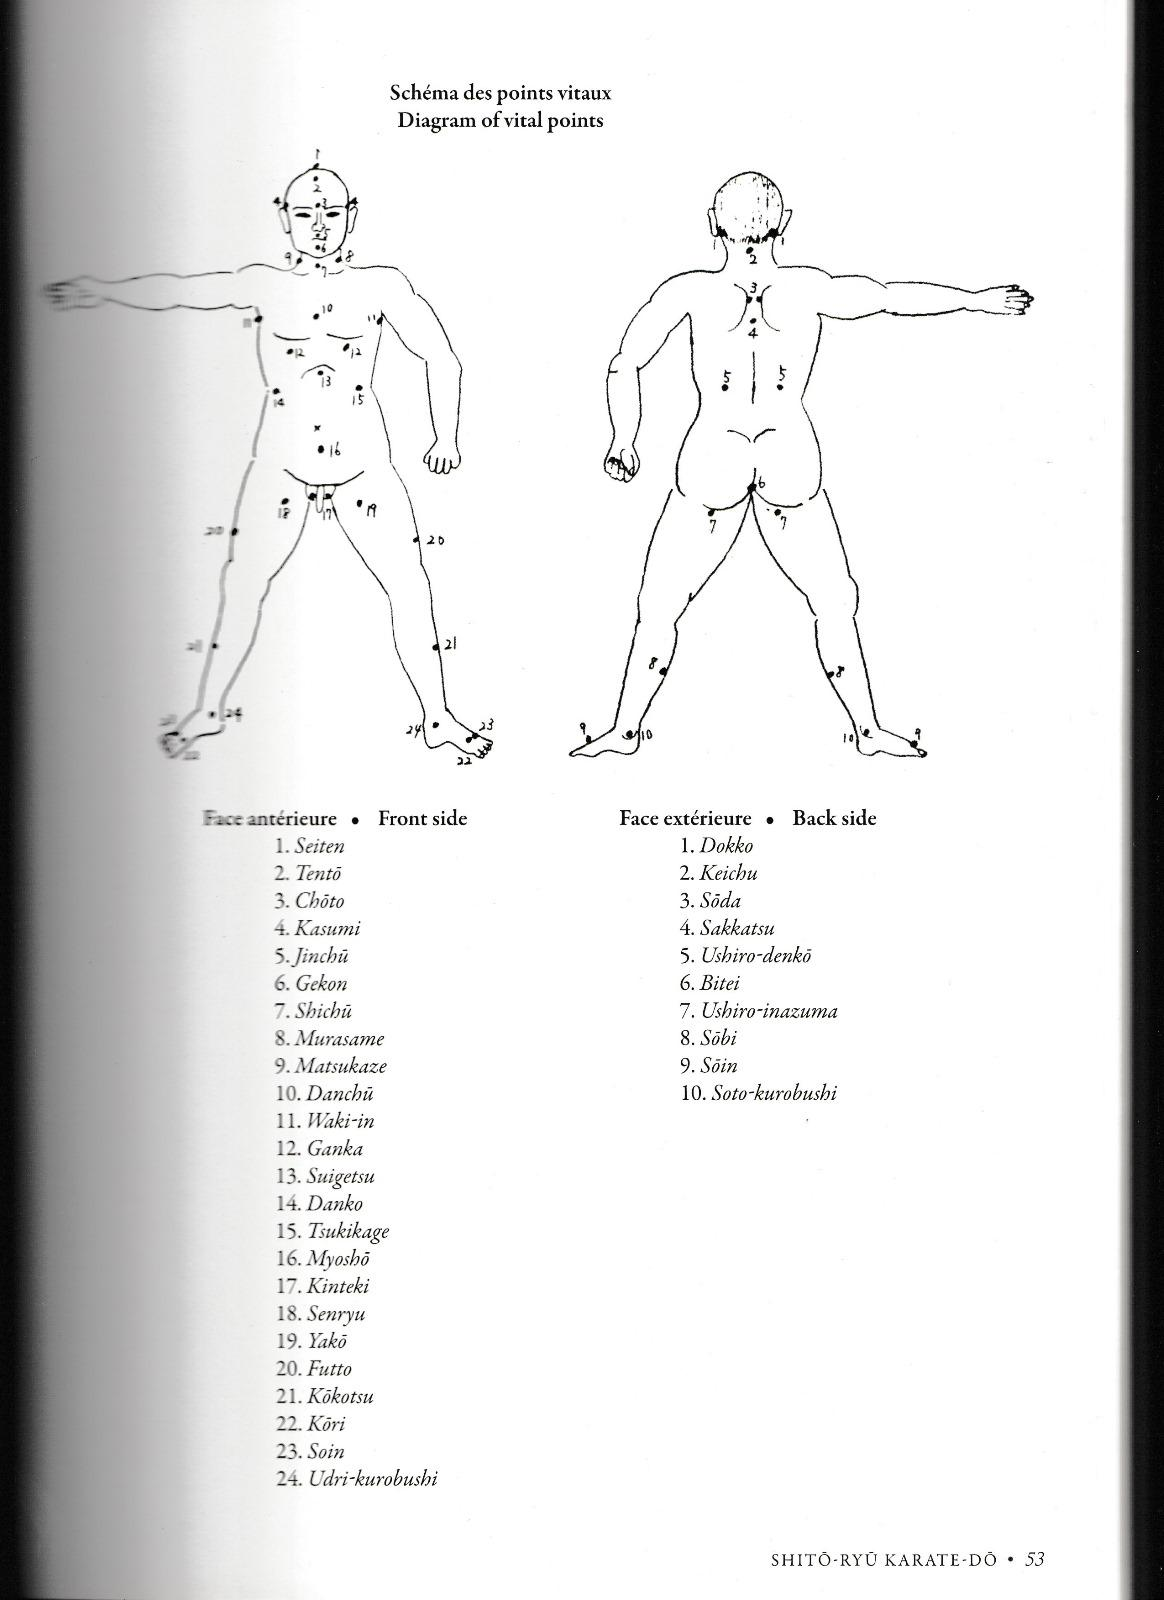
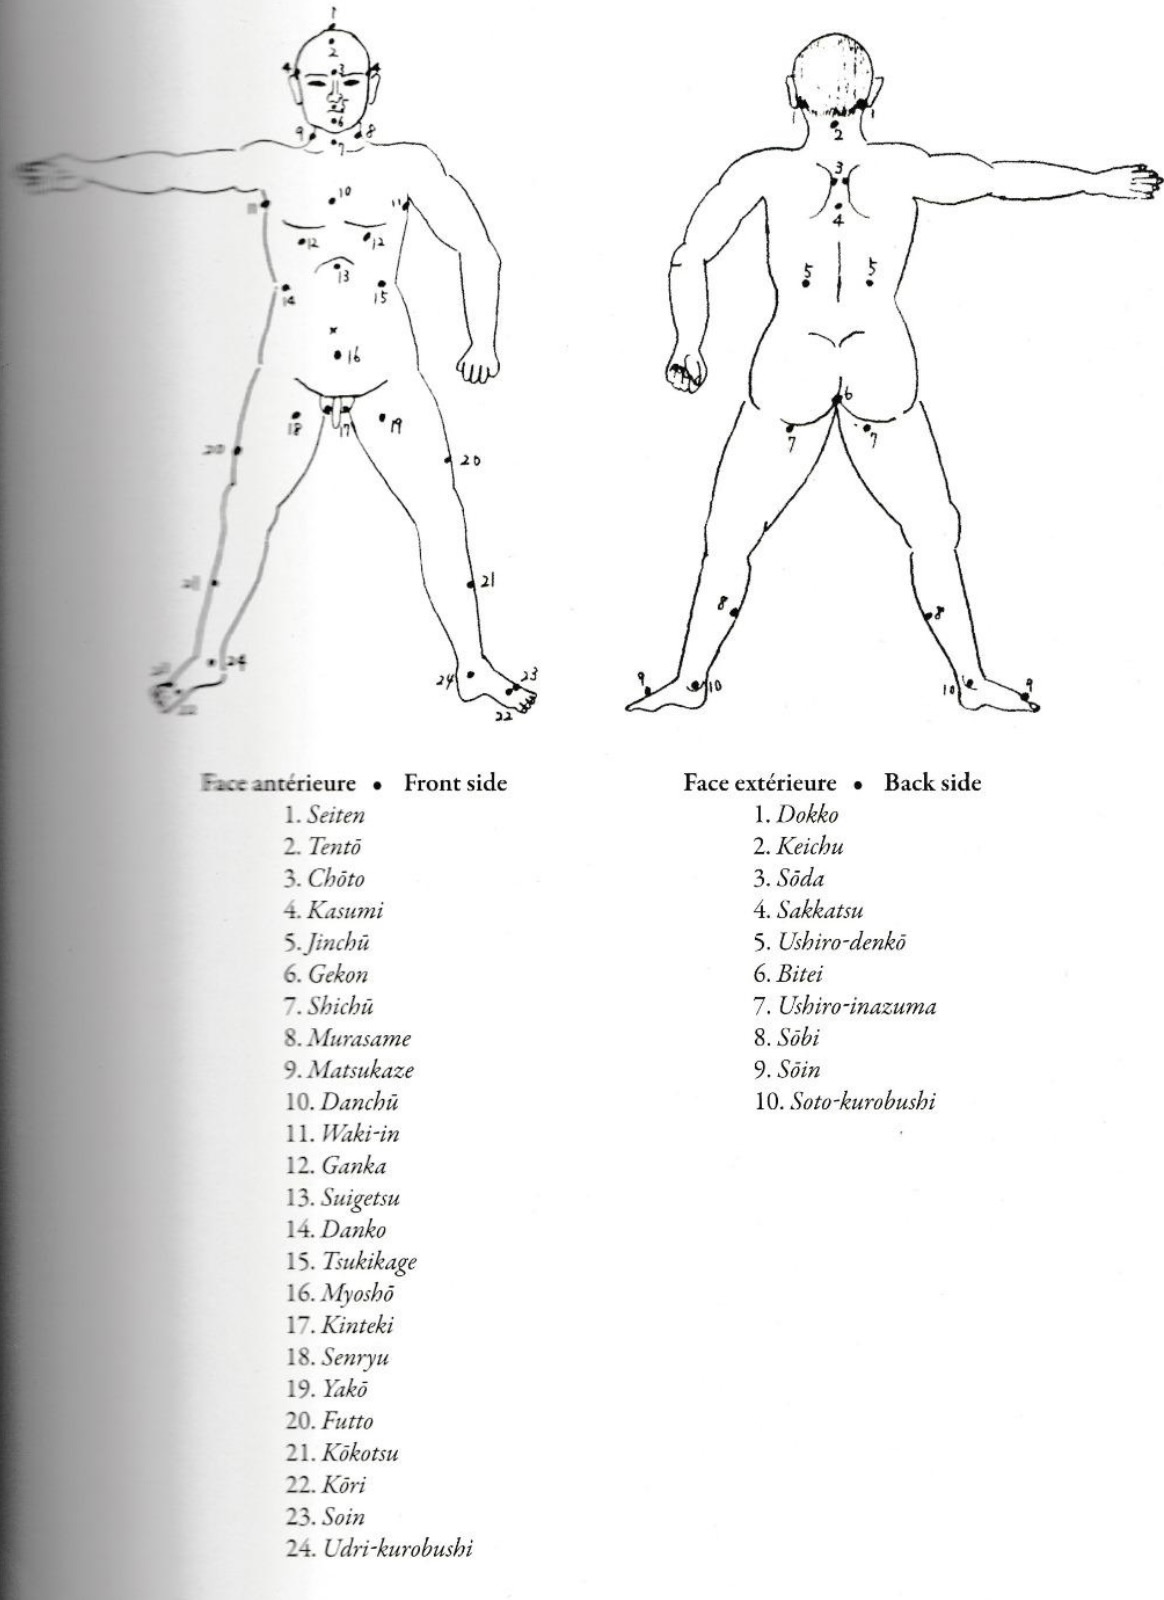
feat: front and back focused study

diff --git a/src/components/ImageViewer.tsx b/src/components/ImageViewer.tsx
@@ -7,7 +7,11 @@ import {
   useRef,
   useState,
 } from "react";
-import { clientToPercent, svgViewBoxWidth } from "../lib/imageCoords";
+import {
+  clientToPercent,
+  svgViewBoxWidth,
+  vitalPointsImageSrc,
+} from "../lib/imageCoords";
 import {
   dotKey,
   findNearestDot,
@@ -49,7 +53,7 @@ export interface ImageViewerProps {
 export default function ImageViewer({
   side,
   points,
-  imageSrc = `${import.meta.env.BASE_URL}vital-points.jpeg`,
+  imageSrc,
   mode,
   highlightedPointId = null,
   selectedPointId = null,
@@ -64,6 +68,8 @@ export default function ImageViewer({
   interactive = true,
   tapNearestDot = false,
 }: ImageViewerProps) {
+  const resolvedImageSrc = imageSrc ?? vitalPointsImageSrc(side);
+
   const overlayRef = useRef<HTMLDivElement>(null);
   const imgRef = useRef<HTMLImageElement>(null);
   const [imageReady, setImageReady] = useState(false);
@@ -82,12 +88,12 @@ export default function ImageViewer({
   useEffect(() => {
     setImageReady(false);
     setImageAspect(1);
-  }, [imageSrc]);
+  }, [resolvedImageSrc]);
 
   // Cached images often skip onLoad; opening DevTools only resized the page before.
   useLayoutEffect(() => {
     syncImageFromElement();
-  }, [imageSrc, syncImageFromElement]);
+  }, [resolvedImageSrc, syncImageFromElement]);
 
   useEffect(() => {
     const img = imgRef.current;
@@ -95,7 +101,7 @@ export default function ImageViewer({
     const observer = new ResizeObserver(() => syncImageFromElement());
     observer.observe(img);
     return () => observer.disconnect();
-  }, [imageSrc, syncImageFromElement]);
+  }, [resolvedImageSrc, syncImageFromElement]);
 
   const viewBoxW = svgViewBoxWidth(imageAspect);
 
@@ -211,7 +217,7 @@ export default function ImageViewer({
       >
         <img
           ref={imgRef}
-          src={imageSrc}
+          src={resolvedImageSrc}
           alt={`${side === "front" ? "Front" : "Back"} view vital points diagram`}
           className="pointer-events-none block h-auto w-full select-none"
           draggable={false}

diff --git a/src/components/CoordinateEditor.tsx b/src/components/CoordinateEditor.tsx
@@ -82,7 +82,9 @@ export default function CoordinateEditor({ side }: CoordinateEditorProps) {
         <ol className="mt-2 list-decimal space-y-1 pl-4 text-amber-100/80">
           <li>
             Put your diagram at{" "}
-            <code className="text-amber-300">public/vital-points.jpeg</code>
+            <code className="text-amber-300">public/vital-points-front.jpeg</code>{" "}
+            and{" "}
+            <code className="text-amber-300">public/vital-points-back.jpeg</code>
           </li>
           <li>
             Select a point, then <strong>click each location</strong> on the image

diff --git a/dist/index.html b/dist/index.html
@@ -4,7 +4,7 @@
     <meta charset="UTF-8" />
     <meta name="viewport" content="width=device-width, initial-scale=1.0" />
     <title>Kyusho Memory — Shito-Ryu Vital Points</title>
-    <script type="module" crossorigin src="/karate/assets/index-A_WULTcf.js"></script>
+    <script type="module" crossorigin src="/karate/assets/index-0JfbqMoD.js"></script>
     <link rel="stylesheet" crossorigin href="/karate/assets/index-BGa627AE.css">
   </head>
   <body>

diff --git a/src/lib/imageCoords.ts b/src/lib/imageCoords.ts
@@ -1,5 +1,12 @@
+import type { BodySide } from "../types";
+
 export function svgViewBoxWidth(aspectRatio: number): number {
   return aspectRatio * 100;
+}
+
+/** Diagram image for a body side (`public/vital-points-front.jpeg`, etc.). */
+export function vitalPointsImageSrc(side: BodySide): string {
+  return `${import.meta.env.BASE_URL}vital-points-${side}.jpeg`;
 }
 
 /** Map a screen click to 0–100 % coords inside an element's bounding box. */
